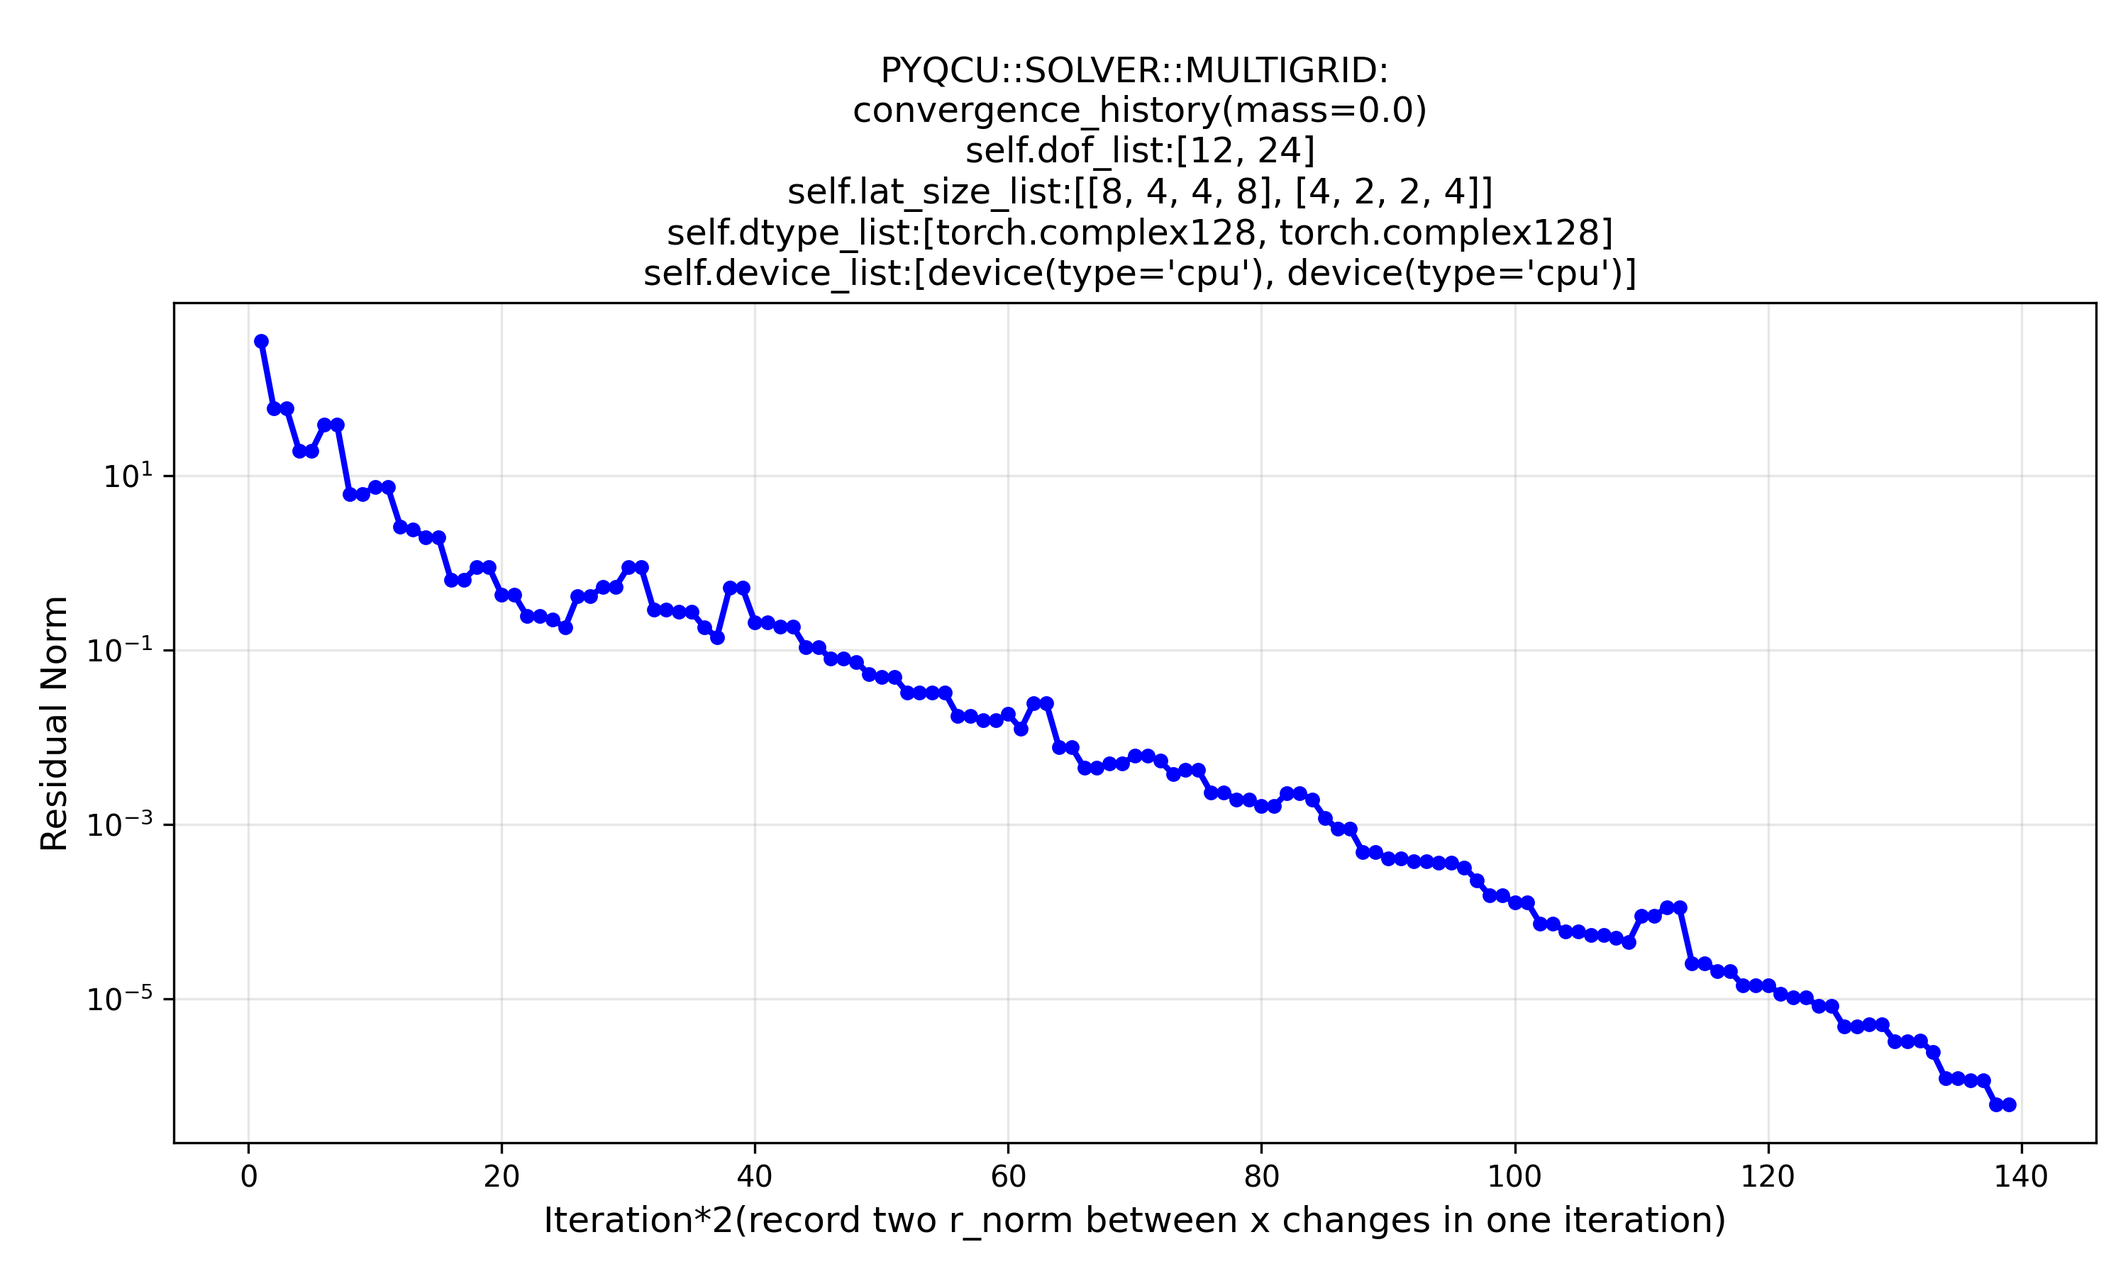
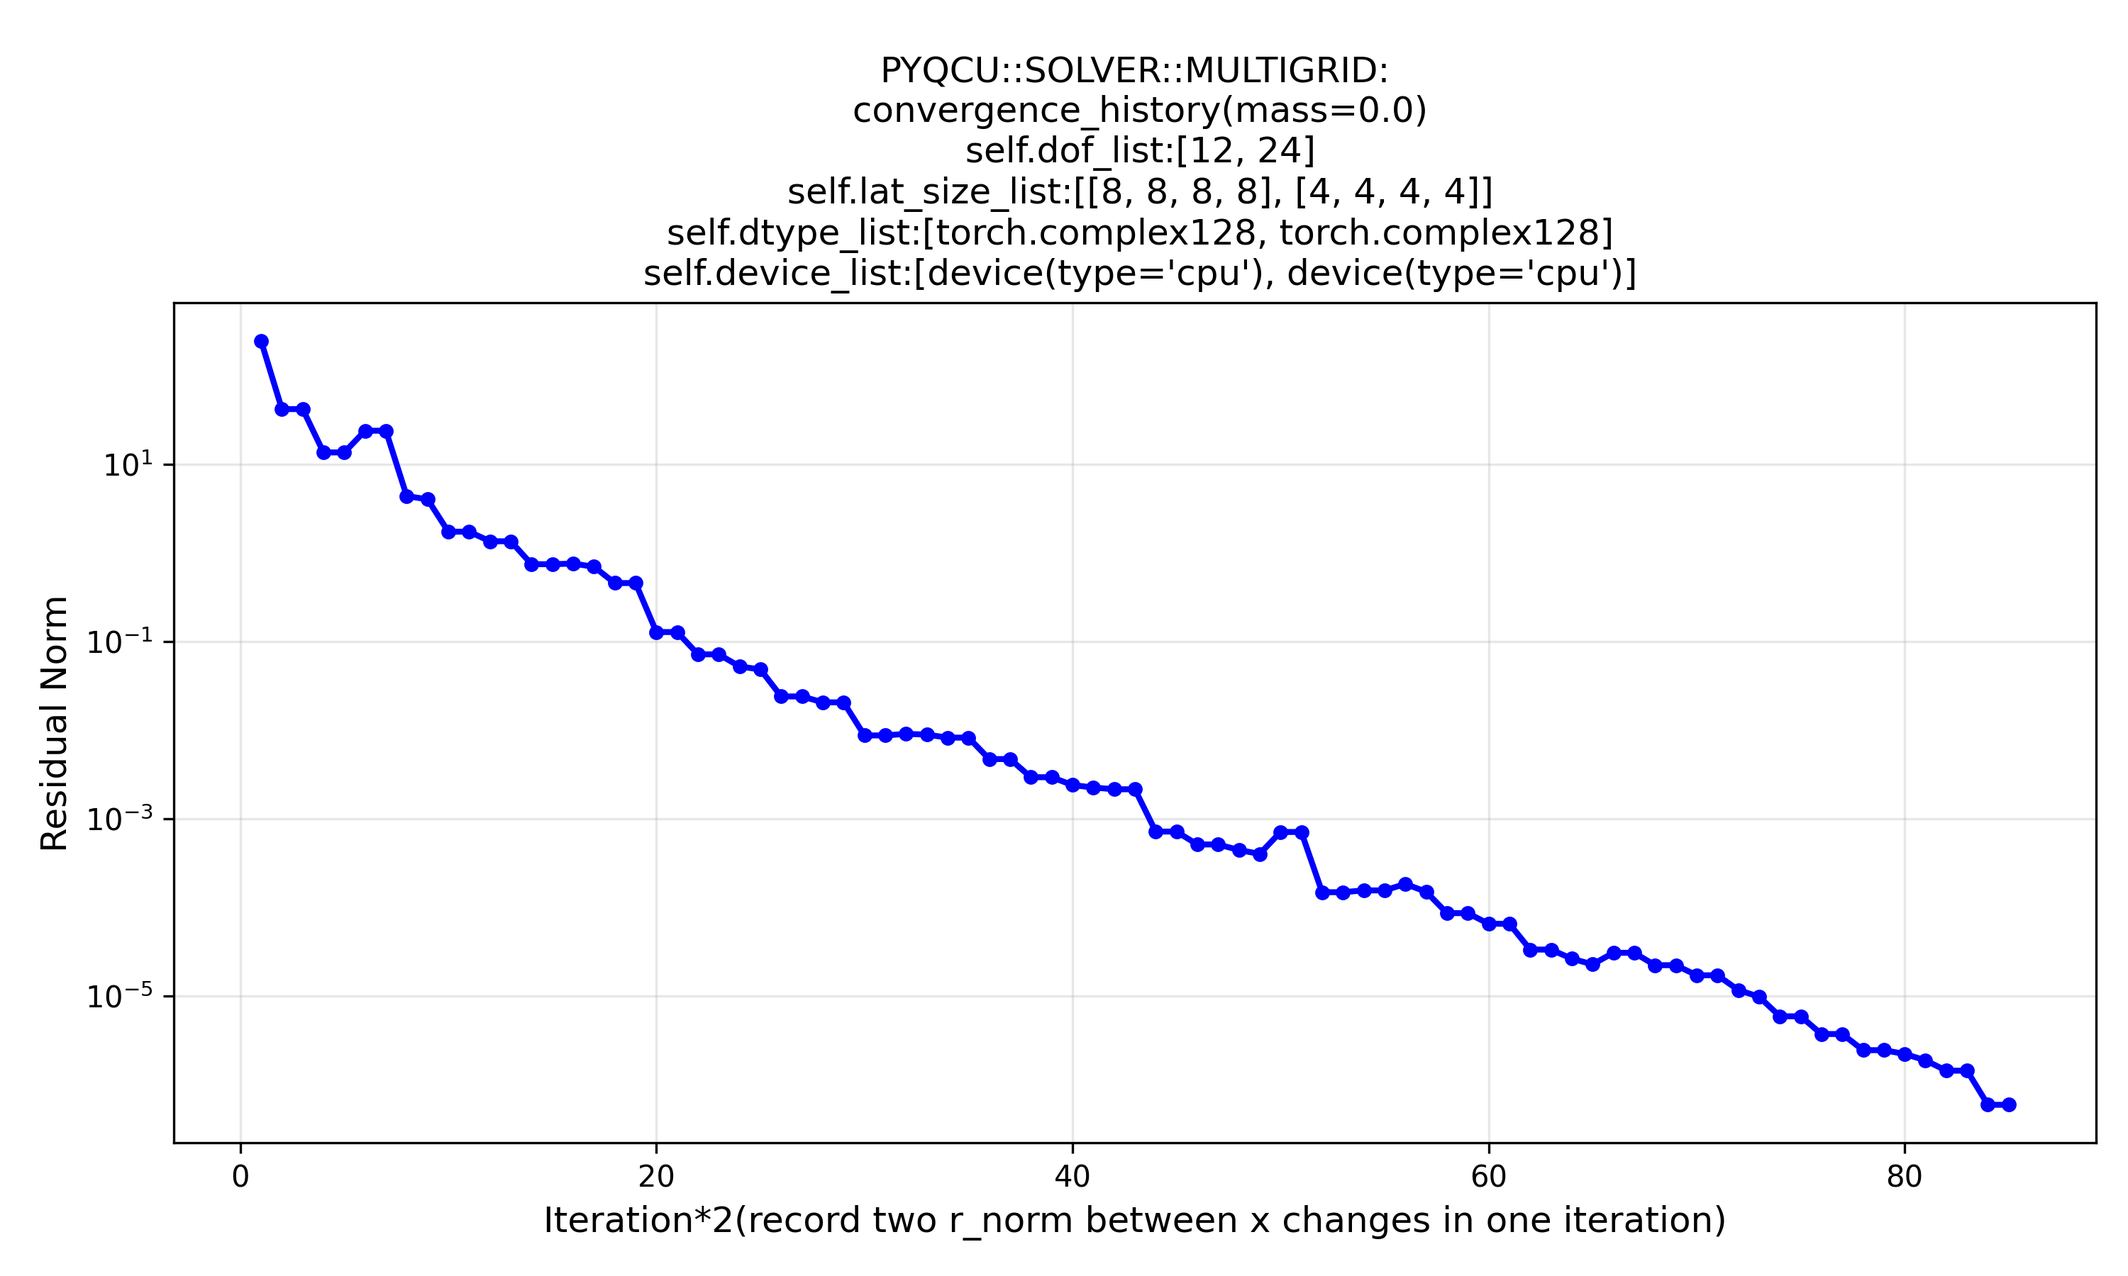
2026-02-13-23-25-00

diff --git a/pyqcu/testing/__init__.py b/pyqcu/testing/__init__.py
@@ -1,3 +1,5 @@
+from curses import beep
+from json import tool
 from time import perf_counter
 from regex import T
 import tilelang
@@ -113,6 +115,7 @@ def test_dslash_parity(lat_size: list = [8, 8, 8, 16], kappa: float = 0.125,  dt
             whole_U, seed=42, sigma=0.1, verbose=True)
         whole_clover_term = dslash.make_clover(
             U=whole_U, kappa=kappa, verbose=True)
+        # whole_clover_term = torch.zeros_like(whole_clover_term)
         whole_src = torch.randn(
             size=[4, 3]+lat_size, dtype=dtype, device=device)
         whole_dest = dslash.give_clover(src=whole_src, clover_term=whole_clover_term, verbose=True) + dslash.give_wilson(src=whole_src, U=whole_U, kappa=kappa,
@@ -135,7 +138,7 @@ def test_dslash_parity(lat_size: list = [8, 8, 8, 16], kappa: float = 0.125,  dt
     time_start = perf_counter()
     dest = (operator.matvec_all(src=refer_src.reshape(
         [12]+list(refer_src.shape[2:])))).reshape(refer_src.shape)
-    dest = operator.matvec(src=refer_src)
+    # dest = operator.matvec(src=refer_src)
     time_end = perf_counter()
     diff = tools.norm(dest - refer_dest) / tools.norm(refer_dest)
     print(f"PYQCU::TESTING::DSLASH::PARITY::REFER_U:\n {tools.norm(refer_U)}")
@@ -161,6 +164,37 @@ def test_dslash_parity(lat_size: list = [8, 8, 8, 16], kappa: float = 0.125,  dt
         f"PYQCU::TESTING::DSLASH::PARITY:\n Difference between computed and reference: {diff}")
     print(
         f"PYQCU::TESTING::DSLASH::PARITY:\n Execution time: {time_end - time_start}")
+    src_eo = tools.oooxyzt2poooxyzt(input_array=refer_src, verbose=True)
+    src_e = src_eo[0]
+    src_o = src_eo[1]
+    refer_dest_eo = tools.oooxyzt2poooxyzt(
+        input_array=refer_dest, verbose=True)
+    refer_dest_e = refer_dest_eo[0]
+    refer_dest_o = refer_dest_eo[1]
+    dest_e = operator.matvec_eeo(src_e=src_e.reshape(
+        [12]+list(src_e.shape[2:])), src_o=src_o.reshape([12]+list(src_o.shape[2:]))).reshape(refer_dest_e.shape)
+    dest_o = operator.matvec_oeo(src_e=src_e.reshape(
+        [12]+list(src_e.shape[2:])), src_o=src_o.reshape([12]+list(src_o.shape[2:]))).reshape(refer_dest_o.shape)
+    print(
+        f"PYQCU::TESTING::DSLASH::PARITY::REFER_DEST_E:\n {tools.norm(refer_dest_e)}")
+    print(
+        f"PYQCU::TESTING::DSLASH::PARITY::REFER_DEST_E:\n {refer_dest_e.flatten()[:12]}")
+    print(
+        f"PYQCU::TESTING::DSLASH::PARITY::REFER_DEST_O:\n {tools.norm(refer_dest_o)}")
+    print(
+        f"PYQCU::TESTING::DSLASH::PARITY::REFER_DEST_O:\n {refer_dest_o.flatten()[:12]}")
+    print(
+        f"PYQCU::TESTING::DSLASH::PARITY::DEST_E:\n {tools.norm(dest_e)}")
+    print(
+        f"PYQCU::TESTING::DSLASH::PARITY::DEST_E:\n {dest_e.flatten()[:12]}")
+    print(
+        f"PYQCU::TESTING::DSLASH::PARITY::DEST_O:\n {tools.norm(dest_o)}")
+    print(
+        f"PYQCU::TESTING::DSLASH::PARITY::DEST_O:\n {dest_o.flatten()[:12]}")
+    print(
+        f"Difference between computed and reference: {tools.norm(dest_e-refer_dest_e)}")
+    print(
+        f"Difference between computed and reference: {tools.norm(dest_o-refer_dest_o)}")
 
 
 def test_dslash_clover(device: torch.device = torch.device('cpu')):
@@ -279,6 +313,134 @@ def test_solver(method: str = 'bistabcg', kappa: float = 0.125, lat_size: list =
         f"PYQCU::TESTING::SOLVER::REFER_B:\n {tools.norm(refer_b)}")
     print(
         f"PYQCU::TESTING::SOLVER::REFER_B:\n {refer_b.flatten()[:12]}")
+    print(
+        f"PYQCU::TESTING::SOLVER::REFER_X:\n {tools.norm(refer_x)}")
+    print(
+        f"PYQCU::TESTING::SOLVER::REFER_X:\n {refer_x.flatten()[:12]}")
+    print(
+        f"PYQCU::TESTING::SOLVER::X:\n {tools.norm(x)}")
+    print(
+        f"PYQCU::TESTING::SOLVER::X:\n {x.flatten()[:12]}")
+    print(
+        f"PYQCU::TESTING::SOLVER::TIME: {time_end - time_start}")
+    print(
+        f"PYQCU::TESTING::SOLVER:\n Difference between computed and reference solution: {diff}")
+
+
+def test_solver_parity(method: str = 'bistabcg', kappa: float = 0.125, lat_size: list = [8, 8, 8, 16],  dtype: torch.dtype = torch.complex64, device: torch.device = torch.device('cpu'), with_data: bool = False, max_levels: int = 2, num_restart: int = 3):
+    if not with_data:
+        comm = MPI.COMM_WORLD
+        root = 0
+        if comm.rank == root:
+            whole_U = torch.zeros(
+                size=[3, 3, 4]+lat_size, dtype=dtype, device=device)
+            lattice.generate_gauge_field(
+                whole_U, seed=42, sigma=0.1, verbose=True)
+            whole_clover_term = dslash.make_clover(
+                U=whole_U, kappa=kappa, verbose=True)
+            whole_clover_term = torch.zeros_like(whole_clover_term)
+            whole_x = torch.randn(
+                size=[4, 3]+lat_size, dtype=dtype, device=device)
+            whole_b = dslash.give_clover(src=whole_x, clover_term=whole_clover_term, verbose=True) + dslash.give_wilson(src=whole_x, U=whole_U, kappa=kappa,
+                                                                                                                        with_I=True, verbose=True)
+        else:
+            whole_U = None
+            whole_clover_term = None
+            whole_x = None
+            whole_b = None
+        refer_U = tools.whole_xyzt2local_xyzt(whole_array=whole_U, whole_shape=[
+                                              3, 3, 4]+lat_size, root=root, dtype=dtype, device=device)
+        refer_clover_term = tools.whole_xyzt2local_xyzt(whole_array=whole_clover_term, whole_shape=[
+                                                        4, 3, 4, 3]+lat_size, root=root, dtype=dtype, device=device)
+        refer_x = tools.whole_xyzt2local_xyzt(whole_array=whole_x, whole_shape=[
+                                              4, 3]+lat_size, root=root, dtype=dtype, device=device)
+        refer_b = tools.whole_xyzt2local_xyzt(whole_array=whole_b, whole_shape=[
+                                              4, 3]+lat_size, root=root, dtype=dtype, device=device)
+    else:
+        kappa = 0.125
+        lat_size = [32, 32, 32, 32]
+        path = pyqcu.__file__.replace('pyqcu/__init__.py', 'examples/data/')
+        refer_U = tools.hdf5oooxyzt2gridoooxyzt(
+            file_name=path+'refer.wilson.U.L32K0_125.ccdxyzt.c64.h5', lat_size=lat_size, device=device, verbose=True)
+        refer_x = tools.hdf5oooxyzt2gridoooxyzt(
+            file_name=path+'refer.wilson.x.L32K0_125.scxyzt.c64.h5', lat_size=lat_size, device=device, verbose=True)
+        refer_b = tools.hdf5oooxyzt2gridoooxyzt(
+            file_name=path+'refer.wilson.b.L32K0_125.scxyzt.c64.h5', lat_size=lat_size, device=device, verbose=True)
+        refer_clover_term = torch.zeros(
+            size=[4, 3, 4, 3]+list(refer_b.shape)[2:], dtype=dtype, device=device)
+    operator = dslash.operator(
+        U=refer_U, clover_term=refer_clover_term, kappa=kappa, support_parity=True, verbose=True)
+
+    # def matvec(src):
+    #     return operator.matvec(src=src)
+    #     # return dslash.give_clover(src=src, clover_term=refer_clover_term, verbose=True) + dslash.give_wilson(src=src, U=refer_U, kappa=kappa, with_I=True, verbose=True)
+    def matvec_parity(src_o):
+        return operator.matvec_parity(src_o=src_o, kappa=kappa)
+    b_eo = tools.oooxyzt2poooxyzt(
+        input_array=refer_b.reshape([12]+list(refer_b.shape)[2:]))
+    b_e = b_eo[0]
+    b_o = b_eo[1]
+    b_parity = operator.give_b_parity(b_e=b_e, b_o=b_o, kappa=kappa)
+    refer_x_eo = tools.oooxyzt2poooxyzt(
+        input_array=refer_x.reshape([12]+list(refer_x.shape)[2:]))
+    refer_x_e = refer_x_eo[0]
+    refer_x_o = refer_x_eo[1]
+    if method == 'bistabcg':
+        time_start = perf_counter()
+        x_o = solver.bistabcg(b=b_parity, matvec=matvec_parity, tol=1e-6,
+                              max_iter=1000, x0=None, if_rtol=False, verbose=True)
+        x_e = operator.give_x_e(b_e=b_e, x_o=x_o, kappa=kappa)
+        x = tools.poooxyzt2oooxyzt(input_array=torch.stack(
+            [x_e, x_o], dim=0)).reshape(refer_b.shape)
+        time_end = perf_counter()
+    elif method == 'multigrid':
+        mg = solver.multigrid(dtype_list=[refer_U.dtype]*10, device_list=[refer_U.device]*10, U=refer_U,
+                              clover_term=refer_clover_term, kappa=kappa, tol=1e-6, max_iter=1000, max_levels=max_levels, num_restart=num_restart, verbose=True)
+        mg.init()
+        time_start = perf_counter()
+        x = mg.solve(b=refer_b)
+        time_end = perf_counter()
+        mg.plot()
+    else:
+        raise ValueError(
+            f"PYQCU::TESTING::SOLVER::SOLVER: {solver} is not supported.")
+    diff = tools.norm(x - refer_x) / tools.norm(refer_x)
+    print(
+        f"PYQCU::TESTING::SOLVER::REFER_U:\n {tools.norm(refer_U)}")
+    print(
+        f"PYQCU::TESTING::SOLVER::REFER_U:\n {refer_U.flatten()[:12]}")
+    print(
+        f"PYQCU::TESTING::SOLVER::REFER_B:\n {tools.norm(refer_b)}")
+    print(
+        f"PYQCU::TESTING::SOLVER::REFER_B:\n {refer_b.flatten()[:12]}")
+    print(
+        f"PYQCU::TESTING::SOLVER::B_E:\n {tools.norm(b_e)}")
+    print(
+        f"PYQCU::TESTING::SOLVER::B_E:\n {b_e.flatten()[:12]}")
+    print(
+        f"PYQCU::TESTING::SOLVER::B_O:\n {tools.norm(b_o)}")
+    print(
+        f"PYQCU::TESTING::SOLVER::B_O:\n {b_o.flatten()[:12]}")
+    print(
+        f"PYQCU::TESTING::SOLVER::B_PARITY:\n {tools.norm(b_parity)}")
+    print(
+        f"PYQCU::TESTING::SOLVER::B_PARITY:\n {b_parity.flatten()[:12]}")
+    print(
+        f"PYQCU::TESTING::SOLVER::REFER_X_E:\n {tools.norm(refer_x_e)}")
+    print(
+        f"PYQCU::TESTING::SOLVER::REFER_X_E:\n {refer_x_e.flatten()[:12]}")
+    print(
+        f"PYQCU::TESTING::SOLVER::REFER_X_O:\n {tools.norm(refer_x_o)}")
+    print(
+        f"PYQCU::TESTING::SOLVER::REFER_X_O:\n {refer_x_o.flatten()[:12]}")
+    print(
+        f"PYQCU::TESTING::SOLVER::X_E:\n {tools.norm(x_e)}")
+    print(
+        f"PYQCU::TESTING::SOLVER::X_E:\n {x_e.flatten()[:12]}")
+    print(
+        f"PYQCU::TESTING::SOLVER::X_O:\n {tools.norm(x_o)}")
+    print(
+        f"PYQCU::TESTING::SOLVER::X_O:\n {x_o.flatten()[:12]}")
     print(
         f"PYQCU::TESTING::SOLVER::REFER_X:\n {tools.norm(refer_x)}")
     print(

diff --git a/pyqcu/dslash/_operator.py b/pyqcu/dslash/_operator.py
@@ -224,30 +224,72 @@ class operator:
 
     def matvec_eo(self, src_o: torch.Tensor) -> torch.Tensor:
         dest_e = torch.zeros_like(src_o)
-        for ward in range(0, 3):
+        for ward in range(4):
+            if self.hopping.grid_size[ward] != 1 or self.sitting:
+                comm = MPI.COMM_WORLD
+                rank = comm.Get_rank()
+                src_head4send = src_o[tools.slice_dim(
+                    dims_num=5, ward=ward, point=0)].cpu().contiguous().numpy().copy()
+                src_tail4recv = np.zeros_like(src_head4send).copy()
+                rank_plus = tools.give_rank_plus(ward=ward)
+                rank_minus = tools.give_rank_minus(ward=ward)
+                comm.Sendrecv(sendbuf=src_head4send, dest=rank_minus, sendtag=rank_minus,
+                              recvbuf=src_tail4recv, source=rank_plus, recvtag=rank)
+                comm.Barrier()
+                src_tail = torch.from_numpy(src_tail4recv).to(
+                    device=src_o.device).clone()
+                src_tail4send = src_o[tools.slice_dim(
+                    dims_num=5, ward=ward, point=-1)].cpu().contiguous().numpy().copy()
+                src_head4recv = np.zeros_like(src_tail4send).copy()
+                rank_plus = tools.give_rank_plus(ward=ward)
+                rank_minus = tools.give_rank_minus(ward=ward)
+                comm.Sendrecv(sendbuf=src_tail4send, dest=rank_plus, sendtag=rank,
+                              recvbuf=src_head4recv, source=rank_minus, recvtag=rank_minus)
+                comm.Barrier()
+                src_head = torch.from_numpy(src_head4recv).to(
+                    device=src_o.device).clone()
+            else:
+                src_tail = None
+                src_head = None
             dest_e += dslash.give_wilson_plus(ward=ward,
-                                              src=src_o, hopping=self.hopping.M_e_plus_list[ward])
+                                              src=src_o, hopping=self.hopping.M_e_plus_list[ward], parity=1 if ward == 3 else None, src_tail=src_tail)
             dest_e += dslash.give_wilson_minus(ward=ward,
-                                               src=src_o, hopping=self.hopping.M_e_minus_list[ward])
-        for ward in range(3, 4):
-            dest_e += dslash.give_wilson_plus(ward=ward,
-                                              src=src_o, hopping=self.hopping.M_e_plus_list[ward], parity=1)
-            dest_e += dslash.give_wilson_minus(ward=ward,
-                                               src=src_o, hopping=self.hopping.M_e_minus_list[ward], parity=1)
+                                               src=src_o, hopping=self.hopping.M_e_minus_list[ward], parity=1 if ward == 3 else None, src_head=src_head)
         return dest_e.clone()
 
     def matvec_oe(self, src_e: torch.Tensor) -> torch.Tensor:
         dest_o = torch.zeros_like(src_e)
-        for ward in range(0, 3):
-            dest_o += dslash.give_wilson_minus(ward=ward,
-                                               src=src_e, hopping=self.hopping.M_o_minus_list[ward])
+        for ward in range(4):
+            if self.hopping.grid_size[ward] != 1 or self.sitting:
+                comm = MPI.COMM_WORLD
+                rank = comm.Get_rank()
+                src_head4send = src_e[tools.slice_dim(
+                    dims_num=5, ward=ward, point=0)].cpu().contiguous().numpy().copy()
+                src_tail4recv = np.zeros_like(src_head4send).copy()
+                rank_plus = tools.give_rank_plus(ward=ward)
+                rank_minus = tools.give_rank_minus(ward=ward)
+                comm.Sendrecv(sendbuf=src_head4send, dest=rank_minus, sendtag=rank_minus,
+                              recvbuf=src_tail4recv, source=rank_plus, recvtag=rank)
+                comm.Barrier()
+                src_tail = torch.from_numpy(src_tail4recv).to(
+                    device=src_e.device).clone()
+                src_tail4send = src_e[tools.slice_dim(
+                    dims_num=5, ward=ward, point=-1)].cpu().contiguous().numpy().copy()
+                src_head4recv = np.zeros_like(src_tail4send).copy()
+                rank_plus = tools.give_rank_plus(ward=ward)
+                rank_minus = tools.give_rank_minus(ward=ward)
+                comm.Sendrecv(sendbuf=src_tail4send, dest=rank_plus, sendtag=rank,
+                              recvbuf=src_head4recv, source=rank_minus, recvtag=rank_minus)
+                comm.Barrier()
+                src_head = torch.from_numpy(src_head4recv).to(
+                    device=src_e.device).clone()
+            else:
+                src_tail = None
+                src_head = None
             dest_o += dslash.give_wilson_plus(ward=ward,
-                                              src=src_e, hopping=self.hopping.M_o_plus_list[ward])
-        for ward in range(3, 4):
+                                              src=src_e, hopping=self.hopping.M_o_plus_list[ward], parity=0 if ward == 3 else None, src_tail=src_tail)
             dest_o += dslash.give_wilson_minus(ward=ward,
-                                               src=src_e, hopping=self.hopping.M_o_minus_list[ward], parity=0)
-            dest_o += dslash.give_wilson_plus(ward=ward,
-                                              src=src_e, hopping=self.hopping.M_o_plus_list[ward], parity=0)
+                                               src=src_e, hopping=self.hopping.M_o_minus_list[ward], parity=0 if ward == 3 else None, src_head=src_head)
         return dest_o.clone()
 
     def matvec_ee(self, src_e: torch.Tensor) -> torch.Tensor:
@@ -272,10 +314,21 @@ class operator:
     def give_b_parity(self, b_e: torch.Tensor, b_o: torch.Tensor, kappa: float = 0.1, u_0: float = 1.0) -> torch.Tensor:
         return (kappa/u_0)*self.matvec_oe(src_e=self.matvec_ee_inv(src_e=b_e))+b_o
 
+    def give_x_e(self, b_e: torch.Tensor, x_o: torch.Tensor, kappa: float = 0.1, u_0: float = 1.0) -> torch.Tensor:
+        return self.matvec_ee_inv(src_e=(b_e+(kappa/u_0)*self.matvec_eo(src_o=x_o)))
+
+    def matvec_eeo(self, src_e: torch.Tensor, src_o: torch.Tensor) -> torch.Tensor:
+        return self.matvec_eo(src_o=src_o)+self.matvec_ee(src_e=src_e)
+
+    def matvec_oeo(self, src_e: torch.Tensor, src_o: torch.Tensor) -> torch.Tensor:
+        return self.matvec_oe(src_e=src_e)+self.matvec_oo(src_o=src_o)
+
     def matvec_all(self, src: torch.Tensor) -> torch.Tensor:
         src_eo = tools.oooxyzt2poooxyzt(input_array=src)
         src_e = src_eo[0]
         src_o = src_eo[1]
-        dest_e = self.matvec_eo(src_o=src_o)+self.matvec_ee(src_e=src_e)
-        dest_o = self.matvec_oe(src_e=src_e)+self.matvec_oo(src_o=src_o)
+        dest_e = self.matvec_eeo(src_e=src_e, src_o=src_o)
+        dest_o = self.matvec_oeo(src_e=src_e, src_o=src_o)
+        print(dest_e.shape)
+        print(dest_o.shape)
         return tools.poooxyzt2oooxyzt(input_array=torch.stack([dest_e, dest_o], dim=0))

diff --git a/examples/init/conftest.py b/examples/init/conftest.py
@@ -6,7 +6,7 @@ from pyqcu.testing import *
 # test_dslash_wilson(with_data=False, suppoer_multi=False)
 # test_dslash_wilson(with_data=False)
 # test_dslash_clover()
-test_dslash_parity()
+# test_dslash_parity()
 # test_solver(method='bistabcg', dtype=torch.complex128,
 #             lat_size=[8, 8, 8, 8])
 # test_solver(method='multigrid', dtype=torch.complex128,
@@ -25,3 +25,7 @@ test_dslash_parity()
 #             lat_size=[8, 8, 8, 16], max_levels=2, num_restart=3)
 # test_solver(method='multigrid', dtype=torch.complex128,
 #             lat_size=[8, 8, 8, 16], max_levels=2, num_restart=5)
+test_solver_parity(method='bistabcg', dtype=torch.complex128,
+                   lat_size=[8, 8, 8, 16])
+# test_solver_parity(method='multigrid', dtype=torch.complex128,
+#             lat_size=[8, 8, 8, 8])
